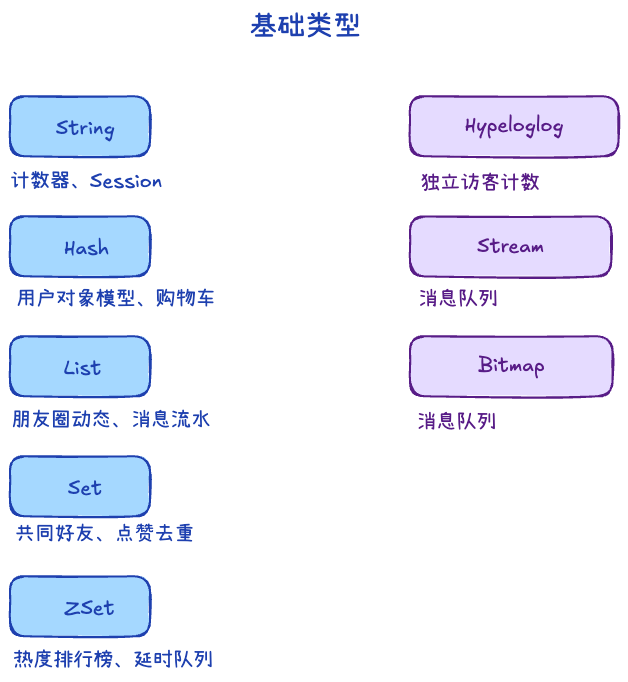
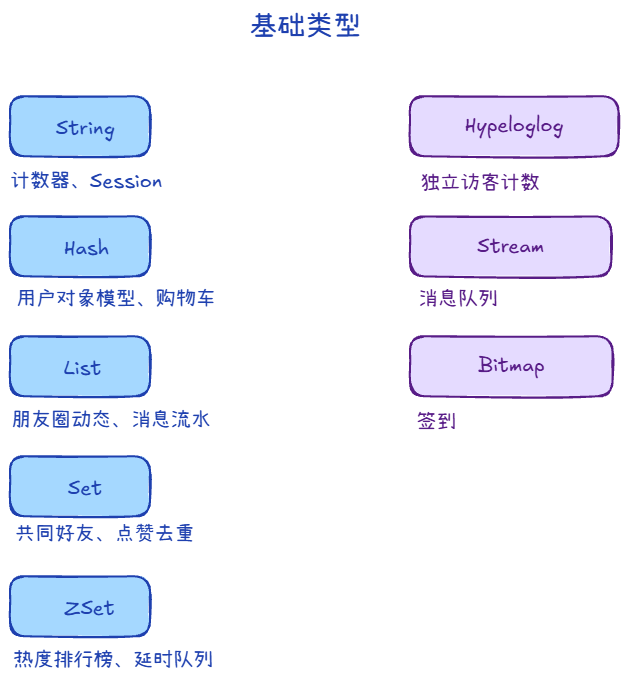
fix: update Redis and NSQ documentation for clarity and completeness
- Revised Redis article to improve the explanation of ZSet and added a new table summarizing data types and their core uses.
- Enhanced NSQ documentation by clarifying the differences between NSQ, Kafka, and RocketMQ, and added a section on handling message backlog.
- Removed outdated commands from the Linux article to streamline content.
- Improved communication flow in the client-server-cloud architecture article, adding roles and clarifying the process of establishing connections.
- Added performance metrics and insights in the second article on communication processes, detailing improvements achieved through NSQ.

diff --git a/Article/Redis/Excalidraw/1/基础类型.对比图.md b/Article/Redis/Excalidraw/1/基础类型.对比图.md
@@ -50,74 +50,74 @@ Vnm6/jKYbmTR7TrltfHxsZ5kk9HhrcgKEnVuGZ59mZOTi5XlnlebqQRCZTSbijVa/azKYLcBK/ZhQUhs
 
[1 lines of base64/hex data omitted]
 
[2 lines of base64/hex data omitted]
 
[2 lines of base64/hex data omitted]
 
[2 lines of base64/hex data omitted]
 
[2 lines of base64/hex data omitted]
 
[2 lines of base64/hex data omitted]
 
[2 lines of base64/hex data omitted]
 
[2 lines of base64/hex data omitted]
 
[2 lines of base64/hex data omitted]
 
[2 lines of base64/hex data omitted]
 
[2 lines of base64/hex data omitted]
 
[2 lines of base64/hex data omitted]
 
[2 lines of base64/hex data omitted]
 
[2 lines of base64/hex data omitted]
 
[2 lines of base64/hex data omitted]
 
[2 lines of base64/hex data omitted]
 
[2 lines of base64/hex data omitted]
 
[2 lines of base64/hex data omitted]
 
[2 lines of base64/hex data omitted]
 
[2 lines of base64/hex data omitted]
 
[2 lines of base64/hex data omitted]
 
[2 lines of base64/hex data omitted]
 
[2 lines of base64/hex data omitted]
 
[2 lines of base64/hex data omitted]
 
[2 lines of base64/hex data omitted]
 
[2 lines of base64/hex data omitted]
 
[2 lines of base64/hex data omitted]
 
[2 lines of base64/hex data omitted]
 
[2 lines of base64/hex data omitted]
 
[2 lines of base64/hex data omitted]
 
[2 lines of base64/hex data omitted]
 
[2 lines of base64/hex data omitted]
 
[2 lines of base64/hex data omitted]
 
[2 lines of base64/hex data omitted]
 
[2 lines of base64/hex data omitted]
 
[2 lines of base64/hex data omitted]
 ```
 %%

diff --git a/Article/项目/1-云端.md b/Article/项目/1-云端.md
@@ -1,20 +1,27 @@
-## 通信流程
+## 客户端、服务端、云端及穿透端的通信流程
 
-**问题** 
+**情境** 
 
 1. 核心问题是 NAT 会拦截无状态入站流量：内网设备只有先出站建立映射，外部回包才进得来
-2. 所以会通过P2P穿透，先直连，后中继
+2. 所以会通过P2P穿透，那要进行穿透就得知道对方的公网地址
 3. 而我负责的项目主要是信令服务器，在双方还没建立起直连通道之前，提供一个互相交换信息的媒介
 
-**我们项目中的完整链路流程**
+**角色**
+
+- 客户端：手机
+- 服务端：nas
+- 云端：我负责的项目，信令服务器
+- 穿透端：公网上的"穿透服务器"
+
+**链路**
 
 1. 首先，都在同一局域网的时候，手机点击开启穿透，nas会请求云端领一些东西
     1. 穿透凭证，用于nas开启穿透
     2. 验证码，用于手机向云端获取信息，在明，可展示给用户
     3. 接头暗号，用于验证身份
-2. 然后nas会拿着穿透凭证，去公网上的"穿透服务器"那里，开包间坐下
-3. 手机现在在外面了，把验证码给云端，问他这人在哪，云端查到后就给他位置，并给他接头暗号
-4. 最后就是找到房间对暗号
+2. 然后nas会拿着穿透凭证，去公网上的"穿透服务器"那里注册或创建会话
+3. 手机现在在外面了，把验证码给云端，问他这人在哪，云端查到后就给他穿透测入口，并给他接头暗号
+4. 最后就是完成身份校验与通道建立
 
 ## 穿透用到什么技术，如何通信
 
@@ -62,3 +69,9 @@
 
 - **解耦**：HTTP 接口只负责业务（发凭证、查设备），「写操作记录/审计日志」不阻塞接口，通过发一条消息交给下游异步处理。
 - **削峰**：请求突增时，写记录不会拖慢主流程，消息先堆积在队列里，消费者按能力消化。
+
+## 为什么不用channel而是nsq
+
+1. 消息不丢，nsq有超时重投、持久化机制
+2. 削峰填谷，channel满了就阻塞；NSQ可以堆积在磁盘，慢慢消费
+3. 后续可扩展，一个做日志，一个做统计

diff --git a/Article/项目/2-文档中心.md b/Article/项目/2-文档中心.md
@@ -2,7 +2,7 @@
 
 在搜索引擎选型中，我们优先考虑部署复杂度与空间占用。ES虽然功能强大，但更适用于大规模分布式场景，对于资源敏感的nas产品来说 内存占用巨大，默认消耗 1-2GB，同时需要 Java 环境；
 Meilisearch降低了使用门槛，但仍需独立部署，同时中文分词有问题。
-MySQL 的 FULLTEXT 索引能做简单全文检索，但文档中心需要更好的相关性排序（如 BM25）、模糊/纠错、中文分词与高亮等，用 MySQL 要么能力不足要么要自己拼，维护成本高；且把「文档检索」和业务结构化数据分开，用嵌入式检索引擎更清晰
+MySQL 的 FULLTEXT 索引能做简单全文检索，但文档中心需要更好的相关性排序、模糊/纠错、中文分词与高亮等，用 MySQL 要么能力不足要么要自己拼，维护成本高；且把「文档检索」和业务结构化数据分开，用嵌入式检索引擎更清晰
 Bleve，就像sqlite，完全嵌入式，同时是go原生，无需额外服务，从而降低运维成本并提升部署效率。
 
 ## 倒排概念以及优缺点

diff --git a/Article/Redis/1-redis.md b/Article/Redis/1-redis.md
@@ -8,9 +8,7 @@
 
 > 为什么是内存？因为**内存和磁盘的访问速度，差了几个数量级**。
 > 
-> 
 > 就像：
-> 
 > - 磁盘 = 去仓库翻箱倒柜
 > - 内存 = 伸手从桌面拿东西
 
@@ -105,6 +103,8 @@ Redis 的 **ZSet**，就是在 Set 的基础上，多了一个 score。
 
 ## 其它
 
+| 类型          | 核心用途 | 常见场景          |
+| ----------- | ---- | ------------- |
 | HyperLogLog | 基数估算 | 独立访客数统计（去重计数） |
-| Stream | 消息流 | 消息队列（持久化） |
-| Bitmap | 位图 | 用户签到 |
+| Stream      | 消息流  | 消息队列（持久化）     |
+| Bitmap      | 位图   | 用户签到          |

diff --git a/Article/其它/linux.md b/Article/其它/linux.md
@@ -44,7 +44,6 @@ chown user:group file.txt
 top            # 或 htop，实时查看系统的整体负载、CPU 占用、内存消耗以及进程列表
 free -h  #  内存使用情况
 df -h  #  磁盘使用情况
-du -sh *  #  文件和目录的大小
 ```
 
 ## 7. 线程和进程区别？
